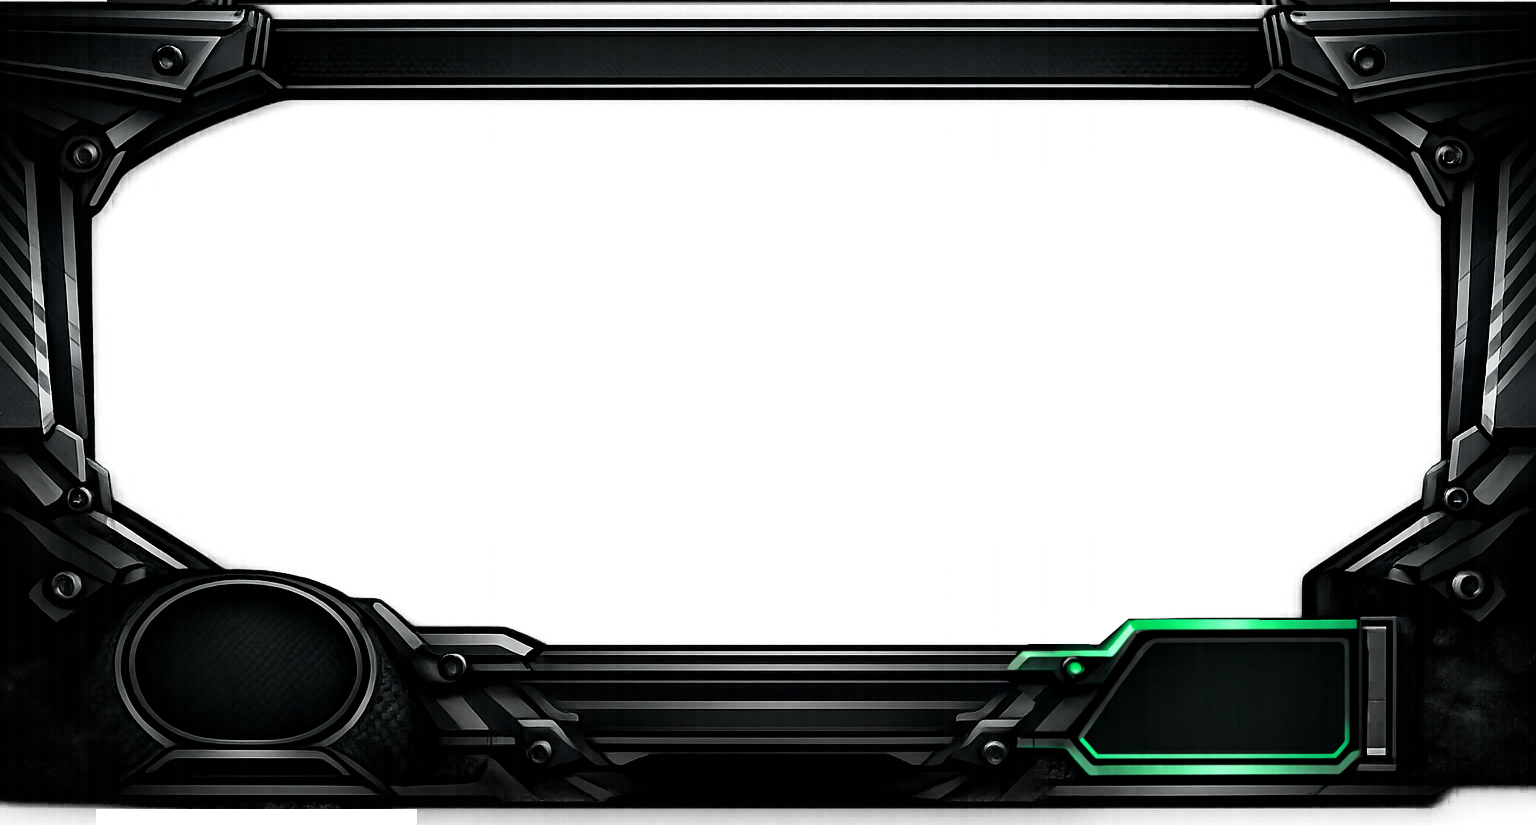
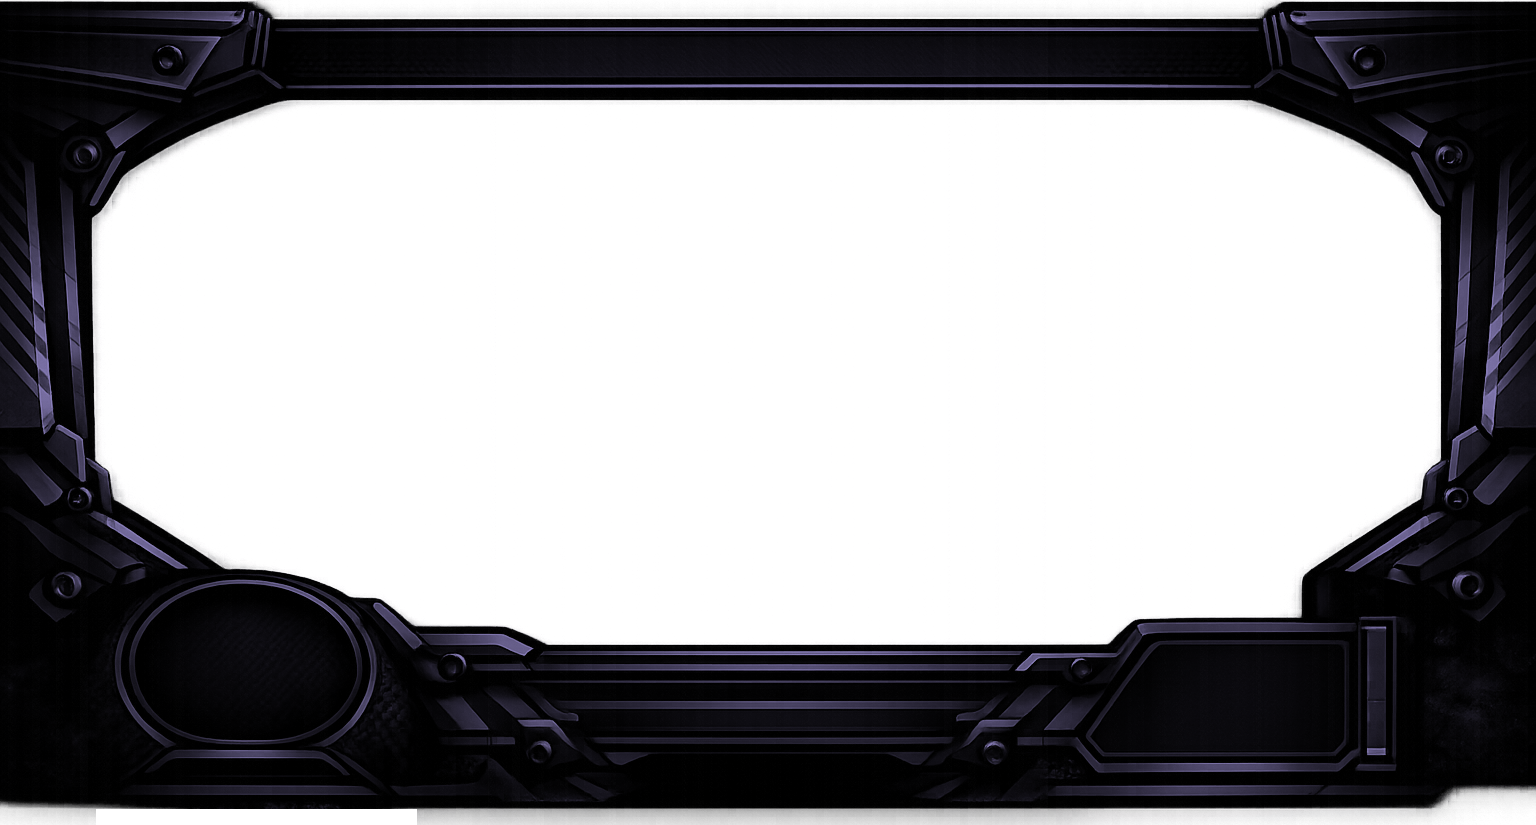
Make colors more phaenomenal

diff --git a/donkeycar/parts/web_app/static/styles/cockpit.css b/donkeycar/parts/web_app/static/styles/cockpit.css
@@ -48,6 +48,17 @@
   font-display: swap;
 }
 
+:root {
+  --color-accent: #1cffa8;
+  --color-accent-2: #2fd6ee;
+  --color-accent-3: #ff6ac8;
+  --color-bg: #201844;
+  --color-primary-2: #40318a;
+  --color-gauge-bg: #1a1a1a;
+
+  --color-grid: var(--color-accent);
+}
+
 * {
   font-weight: inherit;
   margin: 0;
@@ -58,19 +69,14 @@
 body {
   font-family: "Satoshi", sans-serif;
   font-weight: 700;
-  background: black;
+  background: var(--color-bg);
   overflow: hidden;
 }
 
 .content {
-  background:
-    radial-gradient(
-      ellipse at center,
-      #00000000 45%,
-      rgba(0, 0, 0, 0.45) 62%,
-      rgb(0 0 0) 74%
-    ),
-    url("/static/images/cockpit/background2.png");
+  background: linear-gradient(color-mix(in srgb, var(--color-bg) 30%, transparent), color-mix(in srgb, var(--color-bg) 43%, transparent)),
+  linear-gradient(to bottom, rgb(0 0 0) 0%, #00000000 18%, #00000000 86%, rgb(0 0 0) 96%),
+  url("/static/images/cockpit/background2.png");
   background-repeat: no-repeat;
   background-size: 100vw 100vh;
   height: 100vh;
@@ -98,14 +104,14 @@ body {
 
 .digital {
   font-weight: 100;
-  color: #1cffa8;
+  color: var(--color-accent);
   font-size: 2vh;
   letter-spacing: 0.2rem;
   text-transform: uppercase;
 }
 
 #circuit_display {
-  color: #2fd6ee;
+  color: var(--color-accent-2);
 }
 
 #circuit_image {
@@ -113,7 +119,6 @@ body {
     position: absolute;
     right: 4vw;
     top: 4vh;
-    opacity: 0.7;
 }
 
 #weather_display {
@@ -134,8 +139,8 @@ body {
   z-index: 0;
 
   background-image:
-    linear-gradient(to right, #d1d5db 1px, transparent 1px),
-    linear-gradient(to bottom, #d1d5db 1px, transparent 1px);
+    linear-gradient(to right, var(--color-grid) 0px, transparent 1px),
+    linear-gradient(to bottom, var(--color-grid) 0px, transparent 1px);
   background-size: 32px 32px;
 
   /* center transparent, outside visible */
@@ -157,106 +162,7 @@ body {
   left: 25vw;
   height: 60vh;
   width: 50vw;
-}
-
-.throttlebar-container {
-	position: absolute;
-	bottom: 10vh;
-	right: 15.5vw;
-	display: flex;
-    justify-content: center;
-    align-items: end;
-    gap: 0.3vw;
-}
-
-.throttlebar-wrap {
-	width: 2vw;
-}
-
-.throttlebar {
-  position: relative;
-  inset: 0;
-  display: flex;
-  flex-direction: column;
-  gap: 0.5vh;
-  /* spacing between segments */
-  border-radius: 12px;
-
-  /* subtle frame/backplate (optional) */
-  background: linear-gradient(
-    180deg,
-    rgba(255, 255, 255, 0.06),
-    rgba(0, 0, 0, 0.12)
-  );
-  box-shadow:
-    inset 0 0 0 1px rgba(255, 255, 255, 0.1),
-    inset 0 0 18px rgba(0, 0, 0, 0.55);
-  overflow: hidden;
-}
-
-.seg {
-  display: block;
-  height: 0.8vh;
-  border-radius: 3px;
-  background: rgba(255, 255, 255, 0.18);
-  box-shadow:
-    inset 0 1px 0 rgba(255, 255, 255, 0.2),
-    0 0 10px rgba(0, 0, 0, 0.35);
-  filter: saturate(1.05);
-}
-
-.s1 {
-  background: #d61515;
-}
-
-.s2 {
-  background: #e0371c;
-}
-
-.s3 {
-  background: #ea5a1f;
-}
-
-.s4 {
-  background: #f07b22;
-}
-
-.s5 {
-  background: #f3a21f;
-}
-
-.s6 {
-  background: #e8d31b;
-}
-
-.s7 {
-  background: #79d018;
-}
-
-.s8 {
-  background: #2fc022;
-}
-
-.s9 {
-  background: #11a83a;
-}
-
-.s1,
-.s2,
-.s3,
-.s4,
-.s5,
-.s6,
-.s7,
-.s8,
-.s9 {
-  box-shadow:
-    inset 0 1px 0 rgba(255, 255, 255, 0.22),
-    0 0 10px rgba(255, 255, 255, 0.05);
-}
-
-.bar[data-level] .seg {
-  opacity: 0.22;
+  filter: sepia(1) hue-rotate(199deg) opacity(0.7);
 }
 
 .speedometer_gauge {
@@ -265,7 +171,7 @@ body {
 	position: absolute;
 	bottom: 8vh;
 	left: 9.5vw;
-	background: #1a1a1a;
+	background: var(--color-gauge-bg);
 	border-radius: 100%;
 }
 
@@ -296,19 +202,18 @@ body {
   --analog-gauge-range: 250deg;
   --analog-gauge-bdw: 10cqi;
 
-  /* Futuristic palette */
-  --ag-bg0: light-dark(#0b0f16, #080b10);
-  --ag-panel: light-dark(#0f1622, #0b0f16);
-  --ag-metal0: light-dark(#2a323d, #cfd6de);
-  --ag-metal1: light-dark(#10151e, #8f98a4);
-  --ag-glow: #ff3b3b;
-  --ag-glow2: #ff9a3b;
+  --ag-bg0: var(--color-gauge-bg);
+  --ag-panel: var(--color-bg);
+  --ag-metal0: var(--color-primary-2);
+  --ag-metal1: var(--color-bg);
+  --ag-glow: var(--color-accent-2);
+  --ag-glow2: var(--color-accent-2);
 
   --analog-gauge-bg:
-    color-mix(in oklab, #22c55e 80%, #000 20%),
-    color-mix(in oklab, #fde047 85%, #000 15%),
-    color-mix(in oklab, #fb923c 85%, #000 15%),
-    color-mix(in oklab, #ef4444 90%, #000 10%) var(--analog-gauge-range),
+    color-mix(in oklab, var(--color-accent) 80%, #000 20%),
+    color-mix(in oklab, var(--color-accent) 85%, #000 15%),
+    color-mix(in oklab, var(--color-primary-2) 85%, #000 15%),
+    color-mix(in oklab, var(--color-bg) 90%, #000 10%) var(--analog-gauge-range),
     #0000 0 var(--analog-gauge-range);
 
   --analog-gauge-mask-circle:
@@ -324,8 +229,8 @@ body {
   );
 
   --analog-gauge-needle-bg: linear-gradient(180deg,
-    color-mix(in oklab, var(--ag-metal0), #000 35%),
-    color-mix(in oklab, var(--ag-metal1), #000 55%)
+    color-mix(in oklab, var(--ag-glow), #000 15%),
+    color-mix(in oklab, var(--ag-glow), #000 45%)
   );
   --analog-gauge-needle-h: 10cqi;
   --analog-gauge-value-mark-w: 6ch;
@@ -454,10 +359,10 @@ body {
   font-weight: 300;
   grid-area: 3 / 2 / 4 / 3;
   place-self: start center;
-  color: rgba(255,255,255,0.88);
+  color: var(--color-accent);
   text-shadow:
     0 0 14px rgba(255,255,255,0.10),
-    0 0 22px rgba(255,59,59,0.10);
+    0 0 22px color-mix(in oklab, var(--ag-glow), transparent 90%);
 }
 
 /* ===== NEEDLE ===== */
@@ -481,8 +386,8 @@ body {
     #000 2.7cqi
   );
   box-shadow:
-    0 0 18px rgba(255,59,59,0.18),
-    0 0 40px rgba(255,59,59,0.08),
+    0 0 18px color-mix(in oklab, var(--ag-glow), transparent 82%),
+    0 0 40px color-mix(in oklab, var(--ag-glow), transparent 92%),
     inset 0 0 0 1px rgba(255,255,255,0.10);
   filter: saturate(1.05);
 }
@@ -510,7 +415,7 @@ body {
   box-shadow:
     0 10px 18px rgba(0,0,0,0.45),
     inset 0 0 0 1px rgba(255,255,255,0.10),
-    inset 0 0 16px rgba(255,59,59,0.10);
+    inset 0 0 16px color-mix(in oklab, var(--ag-glow), transparent 90%);
 }
 
 /* ===== VALUE MARKS ===== */

diff --git a/donkeycar/parts/web_app/static/js/cockpit.js b/donkeycar/parts/web_app/static/js/cockpit.js
@@ -3,7 +3,6 @@
 // Cockpit Display
 // Read-only view: receives state from the server via WebSocket
 // and updates the gauge, steering wheel, and circuit info.
-// No driving controls live here.
 // ============================================================
 
 const state = {
